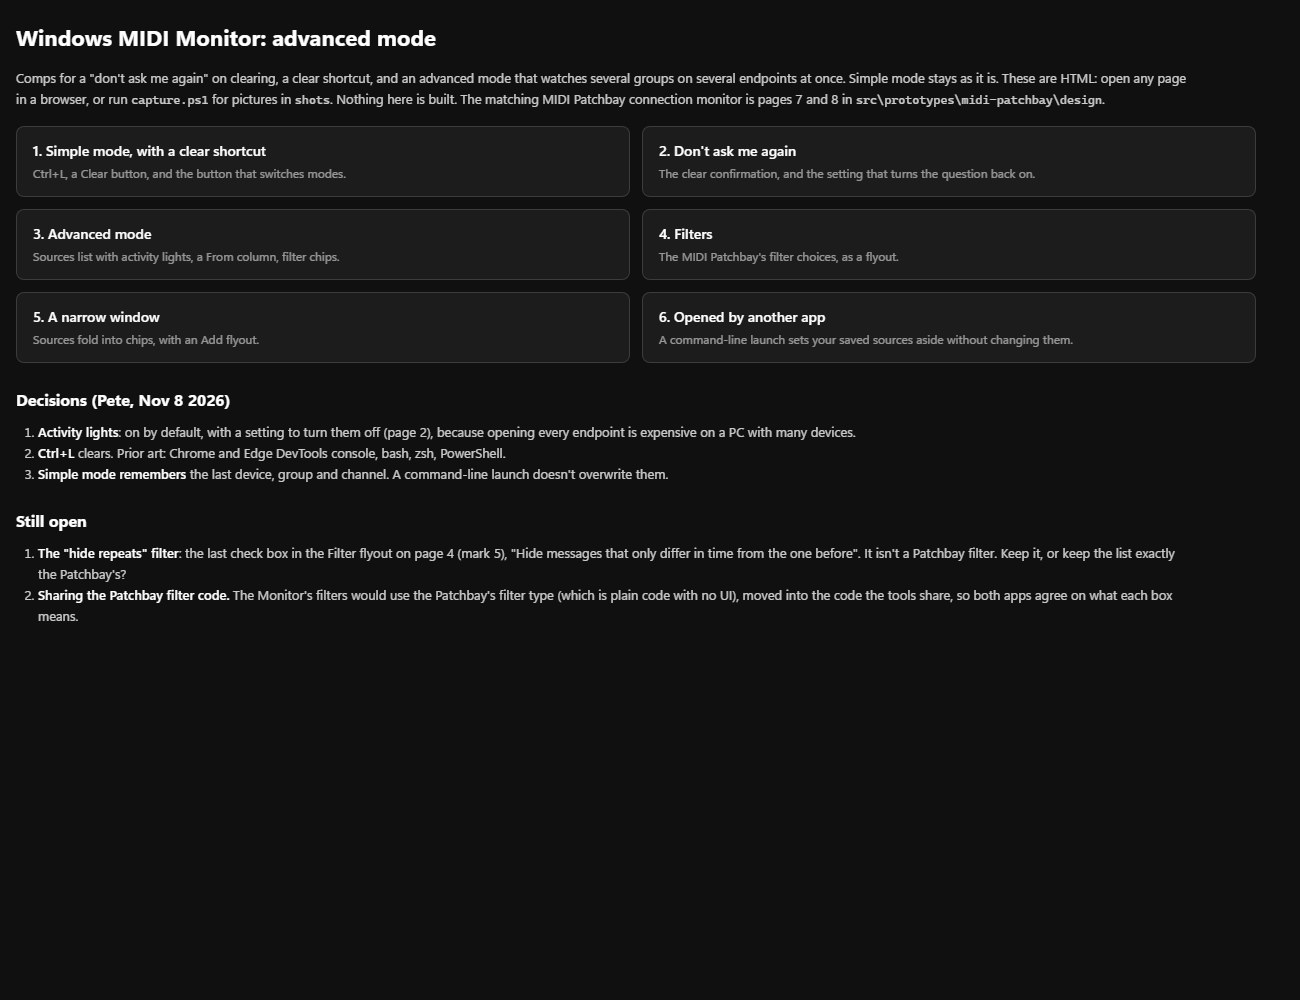
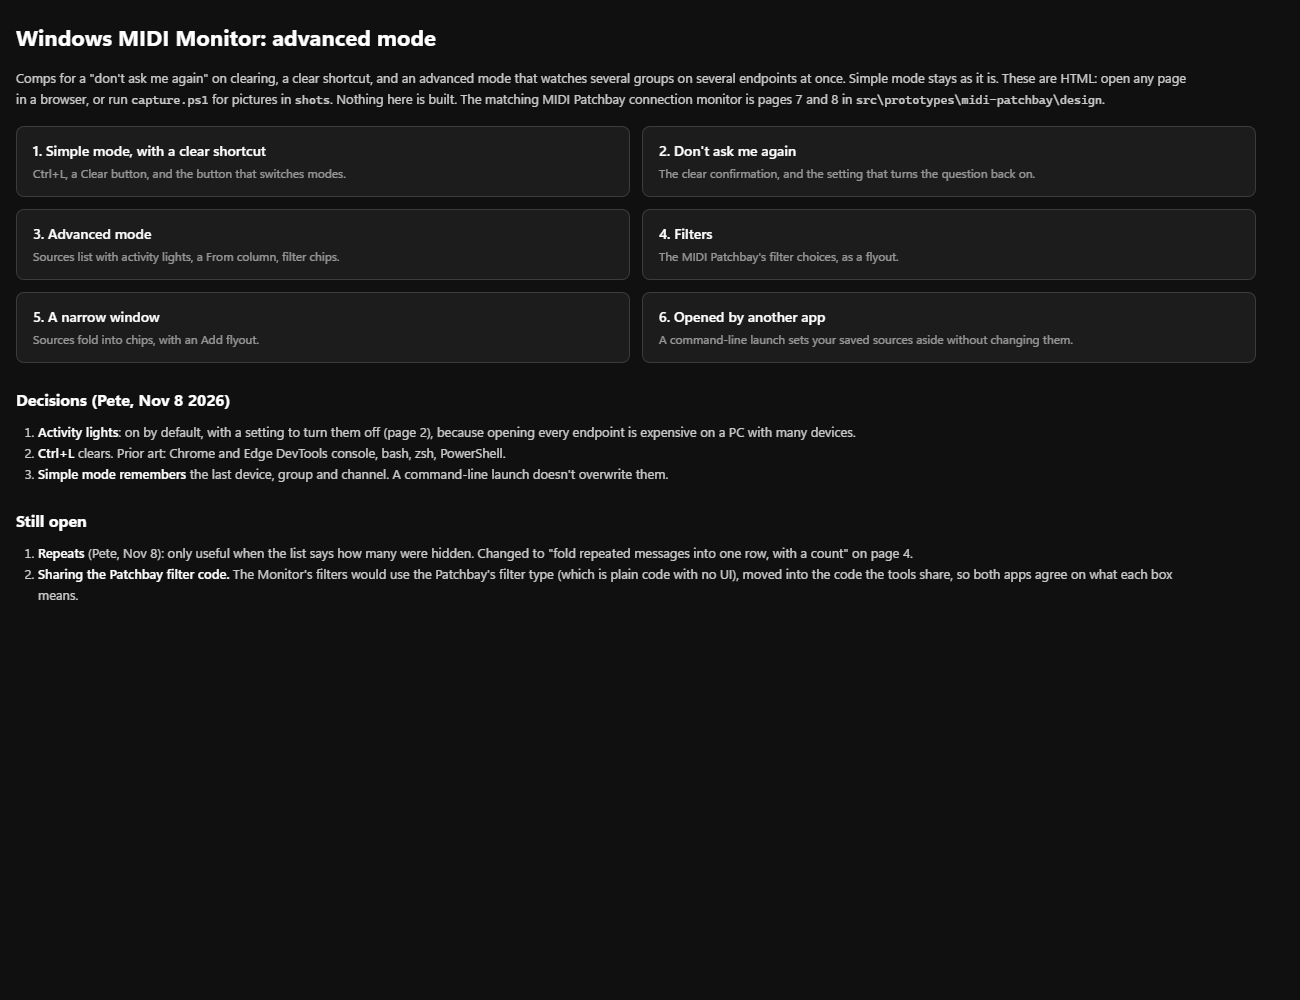
Monitor comps: fold repeats into one row with a count (Pete, Nov 8)

Changed region(s): [[0.0308, 0.527, 0.8923, 0.62]]

diff --git a/src/prototypes/midi-monitor/design/4-filters.html b/src/prototypes/midi-monitor/design/4-filters.html
@@ -2,7 +2,7 @@
 <html lang="en-us">
 <head>
 <meta charset="utf-8">
-<meta name="size" content="1300,1060">
+<meta name="size" content="1300,1420">
 <title>4. Advanced mode filters</title>
 <link rel="stylesheet" href="mon.css">
 <script src="mon.js"></script>
@@ -89,8 +89,14 @@
       </div>
 
       <div class="msep"></div>
-      <div class="hstack" data-mark="5"><span class="check sm"><span class="cb">&#xE73E;</span>Hide messages that only differ in time from the one before</span></div>
+      <div class="hstack" data-mark="5"><span class="check sm"><span class="cb">&#xE73E;</span>Fold repeated messages into one row, with a count</span></div>
     </div>
+  </div>
+
+  <p class="caption-above"><b>With "Fold repeated messages" on.</b> The Modulation wheel held still sent the same value 234 more times. Those messages don't get rows; the row they repeat counts them, and the count keeps going up while they arrive.</p>
+  <div class="window" style="width:1240px">
+    <div class="msgs layer" data-rows="advanced" data-count="4" data-only="a" data-names="off" data-repeat="1:234" data-mark="6" style="margin:12px"></div>
+    <div class="statusrow"><span>Total: 1,430</span><span>Hidden by filter: 3,410</span><span data-mark="7" style="margin-left:6px">Repeats folded: 234</span></div>
   </div>
 
   <ol class="callouts">
@@ -98,7 +104,9 @@
     <li><b>Channels</b> as 16 buttons, numbered from 1 like everywhere else on screen. "All" turns all 16 back on. In advanced mode this replaces the single Channel picker from simple mode, because a picker can only hold one.</li>
     <li><b>System messages</b>, one box each. Clock and Active Sensing here are the same switches as the two buttons in the status bar, so turning one off in either place shows in both.</li>
     <li><b>Note range</b>, the Patchbay's note filter, for note on, note off, poly pressure and the MIDI 2.0 per-note messages. Everything else ignores it.</li>
-    <li><b>A Monitor-only extra</b>: hide repeats (same words as the message before from the same source). Useful for controllers that send the same value over and over. Not a Patchbay filter, so it sits below a line. Easy to drop if you'd rather keep the list exactly the Patchbay's. The filter is saved with advanced mode, and comes back next time.</li>
+    <li><b>A Monitor-only extra: fold repeats.</b> A message with exactly the same data as the one before it from the same source doesn't get a row of its own. It's counted on the row it repeats instead. Useful for controllers that send the same value over and over. Not a Patchbay filter, so it sits below a line. Saved with advanced mode, like the other filters.</li>
+    <li><b>The count is on the row</b>, so you can see where repeats were folded and how many. Each one still keeps its own time: Save to File and copy write every folded message out in full, with its own timestamp. Turning the option off brings them back as rows.</li>
+    <li><b>The status bar adds up the folded messages</b>, next to Hidden by filter, so the total always matches what was received.</li>
   </ol>
 </div>
 </body>

diff --git a/src/prototypes/midi-monitor/design/mon.js b/src/prototypes/midi-monitor/design/mon.js
@@ -96,6 +96,13 @@ function fill(table) {
     const selected = table.dataset.sel ? table.dataset.sel.split(",").map(Number) : [];
     const names = table.dataset.names !== "off";
 
+    // data-repeat="1:234" puts a "234 repeats" count on the second row
+    const repeats = {};
+    (table.dataset.repeat || "").split(",").filter(Boolean).forEach(pair => {
+        const [row, count] = pair.split(":");
+        repeats[Number(row)] = count;
+    });
+
     sourceMap = {};
     (table.dataset.map || "").split(",").filter(Boolean).forEach(pair => {
         const [from, to] = pair.split(":");
@@ -128,6 +135,12 @@ function fill(table) {
             tr.append(cell(row[0].replace("2,", ""), "t"), wordsCell(row, names), cell(row[6] || TYPE[row[2]].name, "d"));
         } else {
             tr.append(cell(row[0].replace("2,", ""), "t"), cell(CORD_TARGETS[shown % 2 === 0 ? 0 : 1], "d"), wordsCell(row, names), cell(row[6] || TYPE[row[2]].name, "d"));
+        }
+
+        if (repeats[shown] !== undefined) {
+            const details = tr.querySelectorAll(".d");
+            const target = details[details.length - 1];
+            target.innerHTML += ` <span class="rep">&times;${repeats[shown]} repeats</span>`;
         }
 
         table.appendChild(tr);

diff --git a/src/prototypes/midi-monitor/design/mon.css b/src/prototypes/midi-monitor/design/mon.css
@@ -196,6 +196,7 @@ html, body {
 .tr .d b { color: var(--text); font-weight: 400; }
 .tr .d i { color: #9fd8ff; font-style: normal; }
 .tr .dl { color: var(--text3); text-align: right; }
+.rep { display: inline-flex; align-items: center; height: 18px; padding: 0 7px; margin-left: 8px; border-radius: 9px; background: var(--accent-dim); color: var(--accent); font-size: 11px; font-weight: 600; }
 .words { display: flex; flex-direction: column; justify-content: center; gap: 1px; line-height: 13px; }
 .words .w { font-family: "Cascadia Mono", Consolas, monospace; font-size: 12px; }
 .words .nm { font-size: 10px; height: 13px; display: inline-flex; align-items: center; padding: 0 5px; border-radius: 3px; color: #000; font-weight: 600; width: max-content; }

diff --git a/src/prototypes/midi-monitor/design/index.html b/src/prototypes/midi-monitor/design/index.html
@@ -39,7 +39,7 @@
 
   <h2>Still open</h2>
   <ol class="q">
-    <li><b>The "hide repeats" filter</b>: the last check box in the Filter flyout on page 4 (mark 5), "Hide messages that only differ in time from the one before". It isn't a Patchbay filter. Keep it, or keep the list exactly the Patchbay's?</li>
+    <li><b>Repeats</b> (Pete, Nov 8): only useful when the list says how many were hidden. Changed to "fold repeated messages into one row, with a count" on page 4.</li>
     <li><b>Sharing the Patchbay filter code.</b> The Monitor's filters would use the Patchbay's filter type (which is plain code with no UI), moved into the code the tools share, so both apps agree on what each box means.</li>
   </ol>
 </div>
